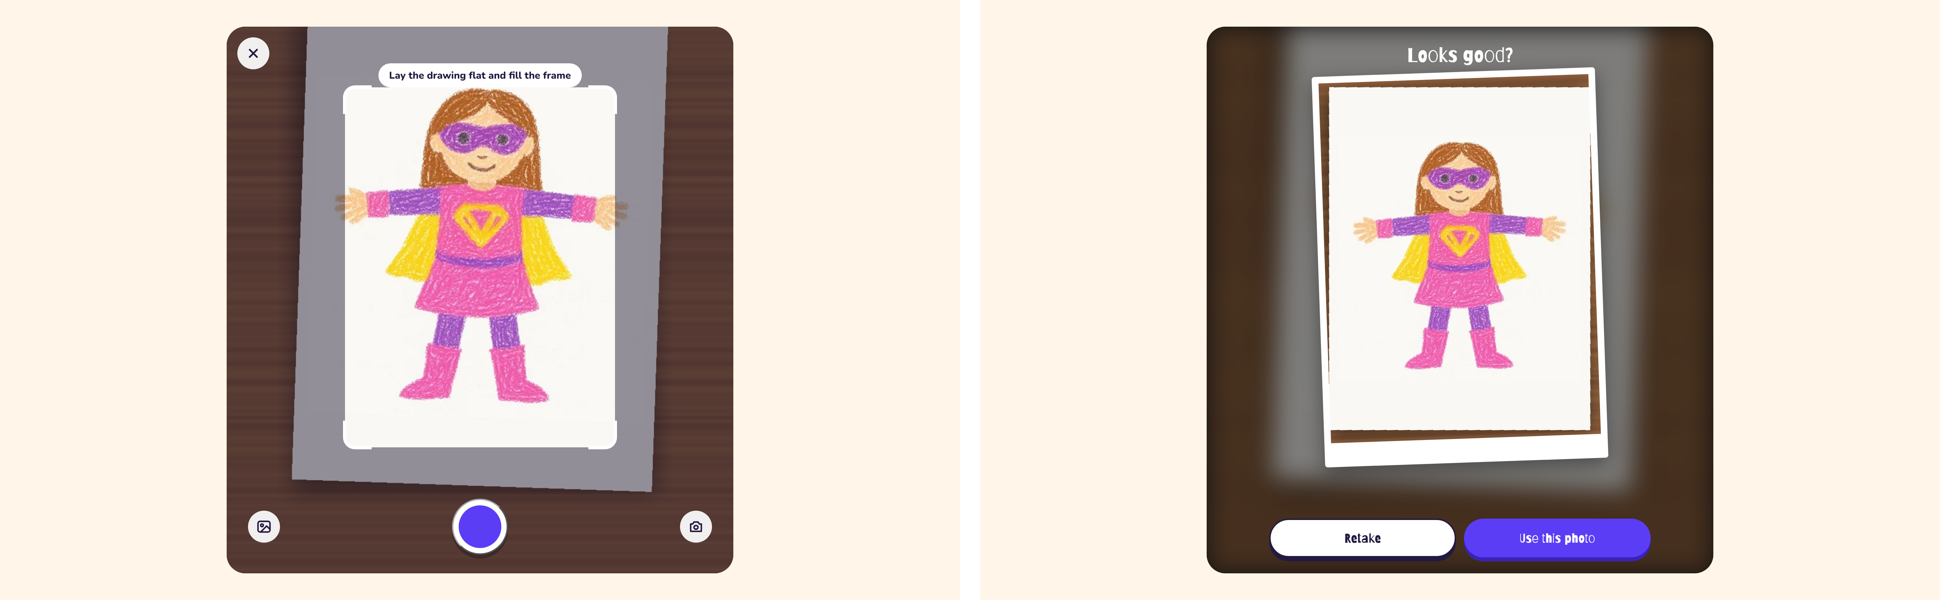
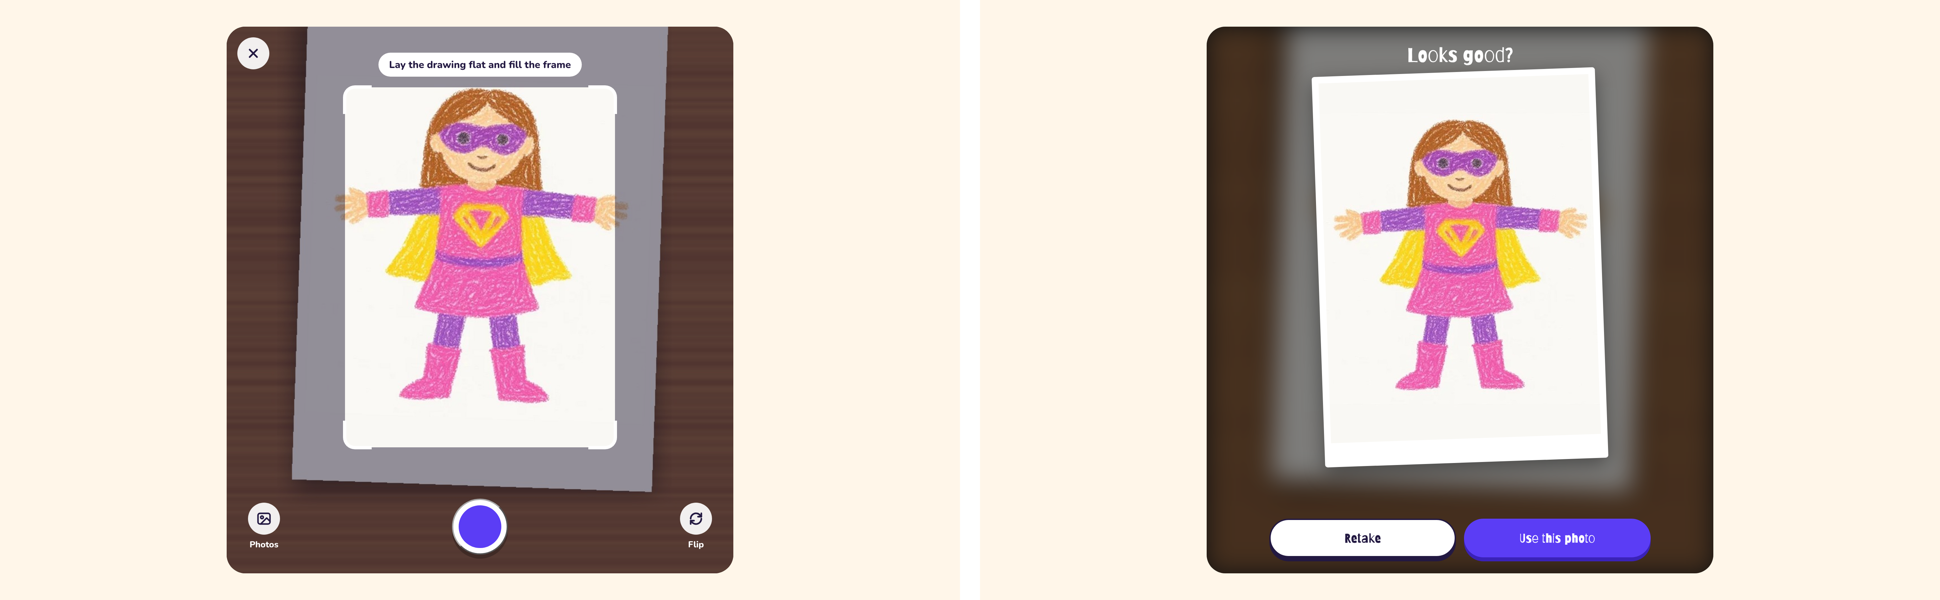
Camera revised: paper-only review crop, labelled Photos/Flip, hint 16 px above guide (Dana's gate)
Claude-Session: https://claude.ai/code/session_01XZmifdbmRRBBAErrtve1b5

diff --git a/docs/design/proposals/camera.md b/docs/design/proposals/camera.md
@@ -33,3 +33,13 @@ app. Flip is shown only when there are two cameras.
 - `mirrored` only for the front lens.
 - Crop to the guide's rectangle on capture.
 - "Choose a photo" opens the existing file input.
+
+### Revised after Dana's gate review (2026-11-24)
+
+- **Review is one frame.** The capture crop snaps to the paper, not to the
+  guide box, so the polaroid hugs the drawing with no table margin inside it.
+  (Build: crop to the guide, then trim the outer band if it is not paper.)
+- **Labels.** The side buttons are labelled "Photos" and "Flip". Flip uses
+  the rotate-arrows icon, so it never reads as a second shutter.
+- **Hint pill:** exactly 16 px above the guide (measured: 16.0).
+- **Guide:** centred, with 43 px left and right at 390 px.
